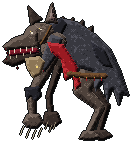
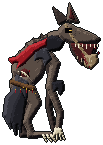
Verger beast concept v2 (WIP, not a usable reference yet)
Claude-Session: https://claude.ai/code/session_01Jpd5tdDJTR7BVueAYV1KDM

diff --git a/ArtSource/make_verger_beast.py b/ArtSource/make_verger_beast.py
@@ -1,83 +1,98 @@
-# The Verger's second form (BOSS_DESIGNS.md "two-form fight"; Yan, 2026-11-20): a werewolf-like beast in the Gaunt's style, still wearing his torn coat, scarf and vial belt. Concept, hand-built with pxart (NOT in the game). python3 ArtSource/make_verger_beast.py
-import os, sys, math
+# The Verger's second form (BOSS_DESIGNS.md "two-form fight"; Yan, 2026-11-20): a werewolf-like beast, still in his torn coat, scarf and vial belt. Concept, NOT in the game.
+# Rebuilt on the Gaunt's own method and anatomy (make_gaunt.py: tall hunched frame, long digitigrade legs, thin long arms, volume-shaded parts, hand-placed details), scaled up 1.3x,
+# fur instead of bare hide, a canine head with ears, ribs showing through a torn flank. Faces right like every mutant. python3 ArtSource/make_verger_beast.py
+import os, sys, math, random
 import numpy as np
 from PIL import Image
 sys.path.insert(0, os.path.dirname(os.path.abspath(__file__)))
 from pxart import *
 OUT = os.path.join(os.path.dirname(os.path.abspath(__file__)), 'mutants_anim', 'boss_concepts'); os.makedirs(OUT, exist_ok=True)
 ROOT = os.path.join(os.path.dirname(os.path.abspath(__file__)), '..')
-FUR = ramp("#0e0b0a", "#201a18", "#352c28", "#4e423b", "#72635a"); FURD = ramp("#080606", "#150f0e", "#231b19", "#352b27", "#493c36")
-SKIN = ramp("#1a1214", "#33262a", "#52403f", "#76605a", "#9a8680")
-COAT = ramp("#0a0a0c", "#17171b", "#25252b", "#38383f", "#52525c"); COATD = ramp("#060607", "#0e0e10", "#16161a", "#222228", "#30303a")
+FUR = ramp("#141012", "#272021", "#3d3430", "#594c44", "#7a6a5e"); FURD = ramp("#0b090a", "#171213", "#241d1d", "#352c2a", "#483c38")
+BONE = ramp("#4a4332", "#7a7058", "#a89e82", "#cfc6a8", "#ece4cb"); DARK = ramp("#0a0506", "#1a0b0c", "#2d1214", "#431a1c", "#5e2527")
+COAT = ramp("#09090b", "#151519", "#222228", "#34343c", "#4a4a54"); COATD = ramp("#050506", "#0c0c0e", "#141418", "#1e1e24", "#2a2a32")
 LEATHER = ramp("#120c08", "#241810", "#3a2618", "#553824", "#74502f"); TAN = ramp("#2a2016", "#4a3a2a", "#6e5a40", "#8c7656", "#b09a78")
 RED = ramp("#1e0508", "#44090e", "#6e1018", "#9a1a22", "#c2323a"); BRASS = ramp("#2a1c08", "#5a3e10", "#946a1c", "#c8a034", "#f4d878")
-BONE = ramp("#2a2620", "#524a3e", "#8a7e6a", "#c4b8a0", "#ece2cc"); MOUTH = ramp("#12040a", "#2a0810", "#4a0e18", "#6e1624", "#8a2030")
-S = (170, 160)
-def L(m, col, **k): return shade(m, col, **k)
-import random
-def strands(im, seed, n, up=1.28, down=0.74):
-    """fur: short diagonal strands, lighter and darker, drawn over the shaded part"""
+K = 1.3; OY = 14; S = (150, 170)
+def Y(pts): return [(x * K, (y + OY) * K) for x, y in pts]
+def wd(w): return [v * K for v in w]
+def T(m, pts, w): return m.tube(Y(pts), wd(w))
+def PL(m, pts): return m.poly(Y(pts))
+def E(m, cx, cy, rx, ry, rot=0): return m.ell(cx * K, (cy + OY) * K, rx * K, ry * K, rot)
+def strands(im, seed, n):
+    """fur: short diagonal strands, lighter and darker, over the shaded part"""
     rnd = random.Random(seed); a = np.array(im); H, W = a.shape[:2]
     for _ in range(n):
         x, y = rnd.randrange(W), rnd.randrange(H)
         if a[y, x, 3] == 0: continue
-        f = up if rnd.random() < 0.55 else down; c = a[y, x, :3].astype(float)
+        f = 1.3 if rnd.random() < 0.5 else 0.72; c = a[y, x, :3].astype(float)
         for k in range(rnd.randint(2, 4)):
-            xx, yy = x + k, y + k * 2 // 1 if False else y + k
+            xx, yy = x - k, y + k
             if 0 <= xx < W and 0 <= yy < H and a[yy, xx, 3] > 0: a[yy, xx, :3] = np.clip(c * f, 0, 255).astype(np.uint8)
     return Image.fromarray(a, "RGBA")
-def F(m, col, seed, n=260, **k): return strands(shade(m, col, tex=0.3, seed=seed, **k), seed, n)
 def beast():
-    layers = []
-    # far side: leg and arm
-    m = Mask(S); m.tube([(106, 78), (98, 100), (112, 118), (104, 144)], [13, 9, 6, 5]); layers.append(F(m, FURD, 1, 120, depth=3))
-    m = Mask(S); m.poly([(98, 142), (110, 142), (118, 148), (108, 152), (94, 150)]); layers.append(F(m, FURD, 2, 40, depth=1.5))
-    m = Mask(S); m.tube([(70, 54), (62, 84), (54, 108), (56, 130)], [10, 7, 5, 4.5]); layers.append(F(m, FURD, 3, 100, depth=3))
-    m = Mask(S); m.poly([(50, 124), (62, 124), (66, 134), (58, 140), (48, 136)]); layers.append(F(m, FURD, 4, 30, depth=1.5))
-    # torso: a deep chest, a narrow waist, the haunch
-    m = Mask(S); m.ell(94, 70, 20, 10, rot=14); layers.append(F(m, FUR, 5, 120, depth=5))                                    # the waist
-    m = Mask(S); m.ell(70, 58, 24, 21, rot=-12); layers.append(F(m, FUR, 6, 320, depth=7))                                   # the chest and the shoulder hump
-    m = Mask(S); m.ell(108, 76, 13, 13); layers.append(F(m, FUR, 7, 160, depth=5))                                           # the hip
-    # shaggy tufts along the spine
-    m = Mask(S); m.poly([(58, 38), (60, 30), (64, 37), (68, 28), (72, 36), (78, 29), (80, 38), (88, 32), (90, 42), (98, 38), (98, 50), (62, 50)]); layers.append(F(m, FURD, 8, 80, depth=1.6))
-    # near hind leg: digitigrade
-    m = Mask(S); m.tube([(98, 82), (86, 102), (106, 120), (94, 144)], [24, 15, 8, 6]); layers.append(F(m, FUR, 9, 220, depth=4))
-    m = Mask(S); m.poly([(88, 143), (98, 143), (106, 149), (98, 152), (84, 151)]); layers.append(F(m, FUR, 10, 50, depth=2))
-    # the coat: a high collar, the back torn into a cape, long ragged tails
-    m = Mask(S); m.poly([(54, 36), (66, 30), (82, 34), (100, 46), (116, 62), (126, 84), (134, 108), (128, 106), (124, 118), (118, 100), (112, 114), (108, 94), (100, 104), (98, 84), (84, 80), (72, 70), (58, 62), (50, 48)]); layers.append(F(m, COAT, 11, 60, depth=3.5))
-    m = Mask(S); m.poly([(56, 38), (66, 30), (72, 36), (66, 48), (56, 52)]); layers.append(shade(m, COATD, depth=2, tex=0.1))                    # the collar
-    m = Mask(S); m.poly([(96, 54), (110, 62), (118, 80), (108, 78), (100, 68)]); layers.append(shade(m, COATD, depth=2, tex=0.12, seed=12))     # a fold
-    # head: lean wolf skull, long muzzle, open jaws, tall ears
-    m = Mask(S); m.ell(44, 46, 15, 11, rot=-14); layers.append(F(m, FUR, 13, 120, depth=5))
-    m = Mask(S); m.poly([(42, 42), (18, 50), (8, 58), (12, 62), (44, 60)]); layers.append(F(m, FUR, 14, 80, depth=3))                          # the muzzle
-    m = Mask(S); m.poly([(42, 58), (16, 64), (8, 74), (18, 78), (46, 68)]); layers.append(F(m, FURD, 15, 60, depth=2.5))                         # the lower jaw, dropped
-    m = Mask(S); m.poly([(42, 60), (14, 62), (14, 68), (44, 65)]); layers.append(shade(m, MOUTH, depth=1.2))
-    im0 = layers[-1]
-    for (x, y) in ((14, 62), (19, 61), (25, 60), (31, 59), (37, 59)): px(im0, [(x, y), (x, y + 1), (x, y + 2), (x, y + 3)], BONE[4])          # upper fangs
-    for (x, y) in ((15, 70), (21, 69), (28, 67), (35, 65)): px(im0, [(x, y), (x, y - 1), (x, y - 2)], BONE[3])                               # lower fangs
-    m = Mask(S); m.poly([(36, 38), (33, 18), (47, 31)]); layers.append(F(m, FURD, 16, 20, depth=1.6))
-    m = Mask(S); m.poly([(50, 34), (57, 14), (63, 36)]); layers.append(F(m, FUR, 17, 30, depth=1.8))
-    m = Mask(S); m.poly([(54, 31), (57, 19), (60, 33)]); layers.append(shade(m, SKIN, depth=1.0))
-    # near arm: very long, knuckle-walking
-    m = Mask(S); m.tube([(62, 54), (48, 86), (36, 108), (38, 130)], [19, 12, 8, 6.5]); layers.append(F(m, FUR, 18, 180, depth=3.5))
-    m = Mask(S); m.poly([(32, 126), (44, 126), (48, 134), (42, 140), (32, 139), (28, 134)]); layers.append(F(m, FUR, 19, 50, depth=2))
-    # the torn coat sleeve hanging from the shoulder and the wrist
-    m = Mask(S); m.poly([(56, 46), (68, 50), (60, 70), (50, 84), (44, 78), (50, 62)]); layers.append(F(m, COAT, 20, 30, depth=2.2))
-    m = Mask(S); m.poly([(30, 100), (44, 98), (46, 108), (40, 114), (36, 108), (32, 112)]); layers.append(F(m, COATD, 21, 20, depth=1.6))
-    # the mask torn off, hanging from one strap under the jaw, a brass buckle
-    m = Mask(S); m.poly([(30, 70), (44, 68), (50, 74), (46, 86), (38, 90), (32, 80)]); layers.append(shade(m, TAN, depth=2.2, tex=0.2, seed=22))
-    m = Mask(S); m.tube([(46, 56), (52, 46), (56, 38)], [2.2, 2.2, 2.2]); layers.append(shade(m, LEATHER, depth=1.0))
-    # the scarf, long and torn
-    m = Mask(S); m.poly([(52, 54), (68, 56), (82, 78), (86, 98), (80, 102), (78, 88), (70, 92), (66, 72), (56, 64)]); layers.append(shade(m, RED, depth=2.2, tex=0.22, seed=23))
-    # the vial belt across the waist
-    m = Mask(S); m.tube([(74, 86), (92, 88), (110, 88)], [5, 5, 5]); layers.append(shade(m, LEATHER, depth=1.4, tex=0.2, seed=24))
-    im = paint(S, layers)
-    for (x, y, c) in ((78, 89, RED[3]), (84, 90, RED[2]), (91, 90, RED[3]), (99, 90, RED[2]), (106, 90, RED[3])): px(im, [(x, y), (x, y + 1), (x, y + 2)], c); px(im, [(x, y - 1)], BRASS[3])
-    px(im, [(41, 78), (42, 78), (41, 79), (42, 79)], BRASS[4])
-    px(im, [(36, 44), (37, 44), (36, 45), (37, 45), (45, 41), (46, 41)], BONE[4]); px(im, [(35, 43), (44, 40)], BRASS[4])                          # eyes
-    for (x0, y0) in ((28, 138), (34, 141), (40, 142), (46, 140)): line(im, x0, y0, x0 - 3, y0 + 8, BONE[3]); px(im, [(x0 - 3, y0 + 8)], BONE[4])
-    for (x0, y0) in ((52, 134), (56, 137), (60, 134)): line(im, x0, y0, x0 - 2, y0 + 6, BONE[2])
-    for (x, y) in ((10, 60), (12, 64), (11, 70), (22, 79), (48, 82)): px(im, [(x, y)], RED[2]); px(im, [(x, y + 1)], RED[1])
+    L = []; HL = []
+    def part(cur, build, cols, fur=0, **kw):
+        m = Mask(S); build(m); im = shade(m, cols, **kw)
+        cur.append(strands(im, kw.get('seed', 1), fur) if fur else im); return m
+    # far leg and far arm
+    part(L, lambda m: (T(m, [(34, 60), (41, 74), (34, 88), (37, 96)], [10, 7, 4.6, 3.6]), PL(m, [(33, 95), (49, 95), (51, 98), (33, 98)])), FURD, fur=90, tex=0.12, seed=1)
+    part(L, lambda m: T(m, [(52, 32), (58, 52), (55, 74), (59, 92)], [7.5, 5.4, 4, 3.2]), FURD, fur=70, tex=0.12, seed=2)
+    # the trunk: a narrow pelvis, a deep chest, a hump of shoulder, a thick neck
+    part(L, lambda m: (E(m, 34, 58, 8.5, 7.5), E(m, 40, 44, 12.5, 16, 18), E(m, 46, 31, 10, 8, -20), T(m, [(48, 29), (58, 21), (66, 19)], [9, 7, 5.5])), FUR, fur=380, tex=0.16, seed=3, depth=4, bias=-0.05)
+    # the torn flank: a dark wound with three ribs standing out of it
+    cav = Mask(S); E(cav, 36, 52, 4.2, 6.4, 10); L.append(shade(cav, DARK, depth=2.2, tex=0.08, seed=4))
+    rib = Mask(S)
+    for k in range(3): T(rib, [(32.5, 48 + k * 4), (36, 49 + k * 4), (39.5, 52 + k * 4)], [1.3, 1.4, 0.9])
+    L.append(shade(rib, BONE, depth=1.2))
+    # a ridge of fur along the spine, with knuckles of bone showing through
+    tuft = Mask(S)
+    for (x, y) in ((52, 23), (46, 26), (41, 30), (36, 36), (33, 43), (31, 51)):
+        PL(tuft, [(x - 2, y + 1), (x - 3, y - 4), (x + 1, y - 1), (x + 2, y - 5), (x + 3, y)])
+    L.append(strands(shade(tuft, FURD, depth=1.4, tex=0.2, seed=5), 5, 60))
+    sp = Mask(S)
+    for i, (x, y) in enumerate(((49, 25), (43, 29), (38, 35))): E(sp, x, y, 1.6, 1.4)
+    L.append(shade(sp, BONE, depth=1.2))
+    # near leg: long shin, a paw with claws
+    part(L, lambda m: (T(m, [(37, 58), (45, 72), (38, 86), (42, 96)], [12, 8.5, 5.4, 4.2]), PL(m, [(39, 95), (57, 95), (60, 98), (39, 99)])), FUR, fur=200, tex=0.14, seed=6, bias=-0.05)
+    # near arm: the elbow high, the forearm very long, knuckles at the ground
+    part(L, lambda m: T(m, [(50, 30), (60, 42), (56, 60), (64, 80), (62, 94)], [8.5, 7, 5.4, 4.6, 4]), FUR, fur=190, tex=0.14, seed=7, bias=-0.05)
+    cl = Mask(S)
+    for dx in (-3.4, -1.2, 1.2, 3.4): T(cl, [(62 + dx * 0.5, 92), (63 + dx * 1.3, 100.5)], [1.9, 0.7])
+    for dx in (-3, 0, 3): T(cl, [(54 + dx, 97), (57 + dx * 1.2, 101.5)], [1.8, 0.7])
+    L.append(shade(cl, BONE, depth=1.1))
+    # the coat, torn to ribbons: a collar, a tail-coat hanging off the waist behind him, rags at the shoulder and the wrist
+    part(L, lambda m: PL(m, [(48, 24), (58, 20), (68, 24), (64, 31), (54, 33)]), COATD, depth=2, tex=0.1, seed=8)                                 # the collar
+    part(L, lambda m: PL(m, [(30, 50), (40, 56), (38, 74), (32, 88), (29, 80), (26, 92), (20, 82), (22, 68), (27, 62)]), COAT, fur=40, depth=2.6, tex=0.14, seed=9)   # the tail-coat
+    part(L, lambda m: PL(m, [(34, 62), (38, 70), (34, 96), (31, 88), (30, 98), (26, 86), (28, 74)]), COATD, depth=1.6, tex=0.1, seed=10)           # the inner layer, longer
+    part(L, lambda m: PL(m, [(44, 28), (54, 30), (58, 38), (52, 44), (50, 38), (44, 40)]), COAT, depth=2, tex=0.12, seed=11)                       # a rag of shoulder
+    part(L, lambda m: PL(m, [(58, 56), (66, 55), (67, 62), (64, 66), (62, 61), (59, 64)]), COATD, depth=1.4, tex=0.1, seed=12)                        # the wrist rag
+    # the belt across the waist with the vials, a brass clasp
+    belt = Mask(S); T(belt, [(27, 56), (35, 59), (43, 61)], [3.6, 3.6, 3.6]); L.append(shade(belt, LEATHER, depth=1.2, tex=0.2, seed=13))
+    # the scarf: flung back off the neck by the speed, torn at the end
+    part(L, lambda m: PL(m, [(54, 22), (50, 24), (40, 28), (31, 36), (24, 38), (27, 42), (32, 41), (30, 46), (37, 42), (45, 33), (54, 28)]), RED, depth=2, tex=0.22, seed=14)
+    # the head: a canine skull under fur, a long muzzle, a dropped jaw, two ears
+    part(HL, lambda m: (E(m, 70, 18, 7.5, 7, 8), PL(m, [(70, 12), (80, 15), (91, 20), (94, 23), (92, 26), (73, 27), (66, 23)])), FUR, fur=90, tex=0.14, seed=15, depth=3, bias=-0.05)
+    part(HL, lambda m: PL(m, [(71, 26), (93, 27.5), (88, 41), (80, 43), (73, 33)]), FURD, fur=40, depth=1.8, tex=0.1, seed=16)                    # the lower jaw
+    part(HL, lambda m: PL(m, [(72, 26), (92, 26.8), (87, 38), (79, 40), (74, 31)]), DARK, depth=1.0)                                             # the mouth
+    part(HL, lambda m: PL(m, [(63, 12), (58, -2), (71, 8)]), FURD, fur=14, depth=1.4, seed=17)                                                   # the far ear
+    part(HL, lambda m: PL(m, [(69, 9), (71, -5), (79, 11)]), FUR, fur=20, depth=1.6, seed=18)                                                     # the near ear
+    part(HL, lambda m: PL(m, [(71, 7), (72, -1), (76, 9)]), DARK, depth=1.0)                                                                       # inside it
+    part(HL, lambda m: (E(m, 93, 23.5, 1.9, 1.5)), ramp("#050304", "#0b0708", "#14100f", "#201a19", "#2e2624"), depth=1.0)                       # the nose
+    strap = Mask(S); T(strap, [(68, 12), (73, 21), (80, 30), (86, 38)], [1.9, 1.9, 1.9, 1.9]); HL.append(shade(strap, TAN, depth=1.0, tex=0.1))     # the leather mask, torn off: its strap down the cheek, hanging under the jaw
+    flap = Mask(S); PL(flap, [(82, 36), (92, 34), (93, 41), (88, 46), (83, 44)]); HL.append(shade(flap, TAN, depth=1.4, tex=0.2, seed=19))
+    im = paint(S, L); hm = paint(S, HL)
+    X = lambda x: int(round(x * K)); YY = lambda y: int(round((y + OY) * K))
+    tooth, tooth_d = rgb("#efe7cf"), rgb("#bdb396")
+    for x, ln in ((75, 2), (78, 3), (81, 2), (84, 4), (87, 2), (90, 3), (92, 2)): px(hm, [(X(x), YY(27) + k) for k in range(ln + 1)], tooth)            # ragged teeth, long fangs
+    for x, ln in ((77, 2), (80, 3), (83, 2), (86, 3), (88, 1)): px(hm, [(X(x), YY(40) - k - (3 if x < 80 else 0)) for k in range(ln + 1)], tooth_d)
+    line(hm, X(80), YY(34), X(84), YY(42), rgb("#5e1d22")); line(hm, X(81), YY(34), X(85), YY(41), rgb("#7b2a30"))                                 # a tongue
+    px(hm, [(X(70) + dx, YY(16) + dy) for dx in range(-3, 4) for dy in range(-2, 3)], rgb("#050304"))                                              # the eye socket
+    px(hm, [(X(71), YY(16)), (X(71) + 1, YY(16))], rgb("#ffd86a")); px(hm, [(X(71) + 2, YY(16))], rgb("#c8902a"))                                   # a burning gold point
+    px(im, [(X(35) + k, YY(60) + k // 2) for k in range(0, 14, 3)], BRASS[3])                                                                       # the clasp and the vials on the belt
+    for (x, c) in ((29, RED[3]), (33, RED[2]), (38, RED[3]), (42, RED[2])): px(im, [(X(x), YY(62)), (X(x), YY(62) + 1), (X(x), YY(62) + 2)], c); px(im, [(X(x), YY(62) - 1)], BRASS[3])
+    for (x, y) in ((91, 29), (93, 33), (86, 44), (40, 47)): px(hm if x > 60 else im, [(X(x), YY(y)), (X(x), YY(y) + 1)], RED[2])                      # blood
+    im.alpha_composite(hm)
     return outline(im)
 if __name__ == "__main__":
     b = crop(beast(), 2); b.save(os.path.join(OUT, "verger_beast_concept.png"))

diff --git a/ArtSource/WORK_LOG.md b/ArtSource/WORK_LOG.md
@@ -6855,3 +6855,4 @@ Yan: "give me the concept for that boss we talked about after this". `ArtSource/
 - 9ag design (Yan: two-form Verger): scythe duel to 50%, then a werewolf-like beast still in his coat, Gaunt-style sprite with new animations. Written into BOSS_DESIGNS.md / BOSS_ROSTER.md; nothing built.
 - 9ag design: during the 50% change the Verger is hittable but takes 90% less damage (Yan).
 - 9ag: first beast concept (Verger form 2), `ArtSource/make_verger_beast.py` -> `mutants_anim/boss_concepts/verger_beast_concept.png`, `verger_beast_vs_gaunt.png`. Hand-built, rough (blocky paws, limb anatomy weaker than the Gaunt). Concept only, not in the game.
+- 9ag: beast concept v2 rebuilt on the Gaunt's method (`make_verger_beast.py`, Gaunt frame scaled 1.3x). Yan: a bad reference gives a bad sprite. Still weak (flat wedge head, thin torso, flat fur, blob coat): NOT to be used as a sprite-maker reference. Waiting on Yan: his own beast reference, or more hand passes part by part.
